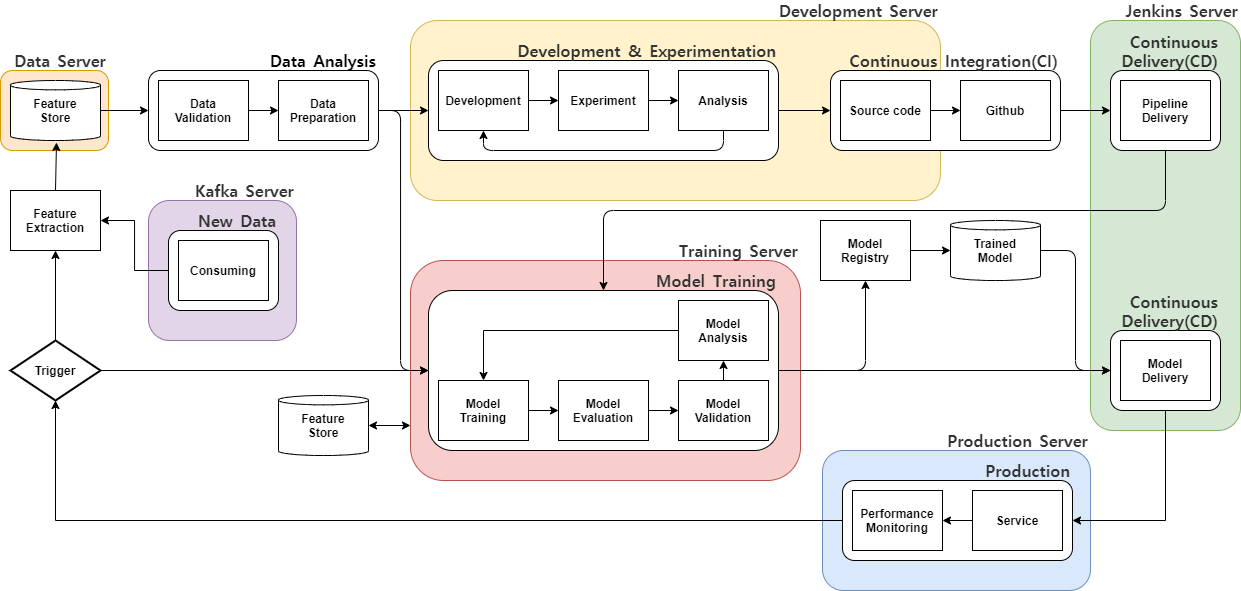
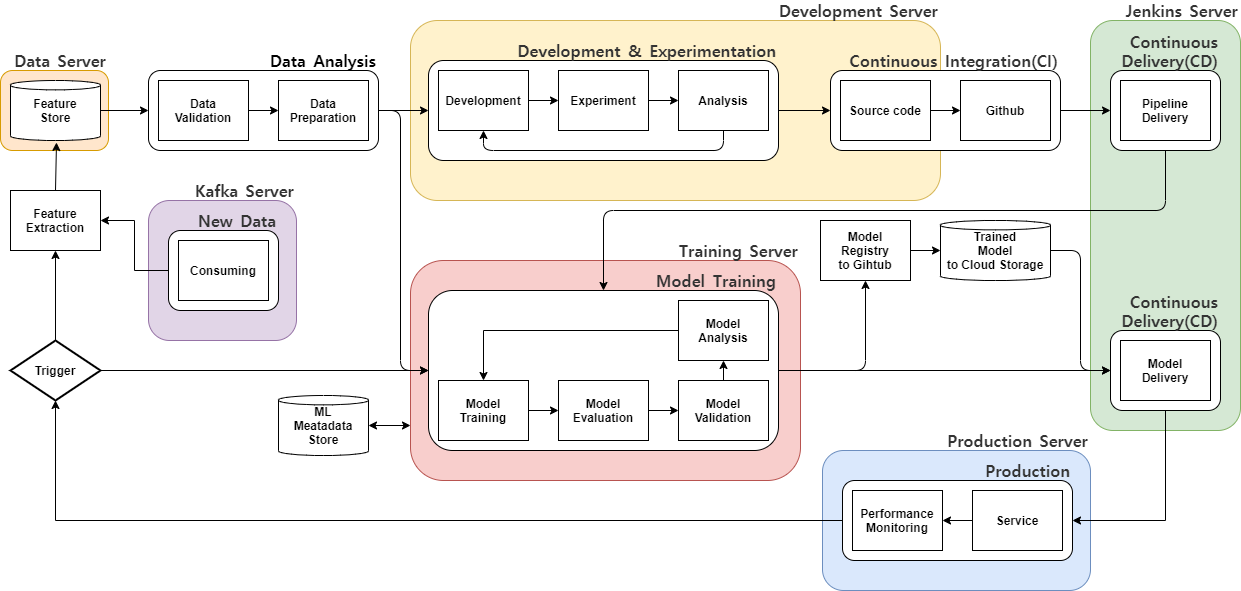
mlops 1

Changed region(s): [[0.6737, 0.3655, 0.8574, 0.4873], [0.2143, 0.6701, 0.3062, 0.7614]]

diff --git a/_posts/2020-08-05-MLOps Toy Project 1.md b/_posts/2020-08-05-MLOps Toy Project 1.md
@@ -22,11 +22,33 @@ Toy Project
     - 학습 및 배포 시 multi-GPU 사용
     - CI/CD/CT 사용(Jenkins)
 
-우선 전체 파이프라인에 대해 설계를 해야한다. Google Cloud Platform의 [MLOps 포스팅](https://cloud.google.com/solutions/machine-learning/mlops-continuous-delivery-and-automation-pipelines-in-machine-learning) 에서는 3 단계의 ML 파이프라인을 소개한다. 이 중 Ci/CD/CT 의 자동화가 가능한 마지막 레벨의 파이프라인을 참고하여 약간 변형된? (거의 동일한) pipeline을 그려보았다.
+우선 전체 파이프라인에 대해 설계를 해야한다. Google Cloud Platform의 [MLOps CI/CD/CT Pipelines](https://cloud.google.com/solutions/machine-learning/mlops-continuous-delivery-and-automation-pipelines-in-machine-learning) 에서는 3 단계의 ML 파이프라인을 소개한다. 이 중 **Ci/CD/CT 의 자동화**가 가능한 마지막 레벨의 파이프라인을 참고하여 약간 변형된? (거의 동일한) pipeline을 그려보았다.
 
 ![pipeline](https://raw.githubusercontent.com/byeongjokim/byeongjokim.github.io/master/assets/images/mlops1/pipeline.png){: width="100%"}
 
-우선 6개의 서버를 사용 할 것이다.
+ML pipeline 에는 필수적으로 구성되어야하는 요소들이 있다. [URL](https://growingdata.com.au/mlops-ci-cd-for-machine-learning-pipelines-model-deployment-with-kubeflow/?preview=true&_thumbnail_id=5121)
+- Prepare & Integrate Data
+- Feature Engineering
+- Model Training & Model Evaluation
+- Hyper Parameter Tuning
+- Model Store
+
+### Prepare & Integrate Data
+training 와 inference 할 때 data의 구조 혹은 양식은 동일해야 하기 때문에 동일한 Data Analysis pipeline을 사용한다. 이때 data의 유효성을 검사하는 **Data Validation**과, 모델 학습에 맞게 변형 시키는 **Data Preparation**이 필수 적이다.
+
+### Feature Engineering
+ML은 data의 feature을 주로 사용하기 때문에 이를 저장하는 **Feature Store**를 사용한다. Feature Store는 학습 및 서비스를 위해 저장 및 엑세스가 가능한 중앙 저장소이다. 이는 feature을 재사용하고, 최신 feature들로 update 될 수 있어야한다. 또한 Kafka로 전달된 새로운 데이터는 **Feature Extraction**을 통해 Feature Store에 저장된다.
+
+### Model Training & Model Evaluation
+ML Model은 학습으로만 끝나는 것이 아니라, **Evaluation**, **Validation**, 그리고 **Analysis** 과정을 통해 더 좋은 Model을 Fitting 해야한다.
+
+### Hyper Parameter Tuning
+ML Model을 학습할 때 여러 Hyper Parameter들이 사용된다. 그리고 이것들에 따라 ML Model의 성능이 좌우된다. 따라서, 각 모델의 Hyper Parameter을 **ML Metatdata Store** 라는 저장소에 저장을 하여, 모델에 따른 Hyper Parameter version 관리 및 엑세스가 가능해야 한다.
+
+### Model Store
+ML Model이 학습 된 후 inference 되기 위해서는 Weight 파일이 저장되어야 한다. 이는 Github, File Cloud 서비스, 혹은 서버를 통해 version 관리가 가능하다. 이번 프로젝트에는 weight 파일은 Google Drive에, 버전 정보는 Github에 관리를 할 예정이다.
+
+각 pipeline의 요소들을 위해 6개의 서버를 사용 할 것이다.
 - Data Server: feature 저장
 - Development Server: 소스 코드 개발
 - Training Server: 모델 학습(GPU 서버)
@@ -34,12 +56,7 @@ Toy Project
 - Productino Server: 배포
 - Kafka Server: 새로운 데이터 공급
 
-물론 Toy Project로 진행 될 것이기 때문에, 6개의 서버를 모두 구축하기는 힘들고, 몇몇 서버는 통합하여 실습해 볼 것이다.
-
-모든 pipeline은 docker로 구축을 할 것이며, 
-
-.. TBA
-
+물론 Toy Project로 진행 될 것이기 때문에, 6개의 서버를 모두 구축하기는 힘들고, 몇몇 요소들은 docker화 시켜 서버를 통합하여 실습해 볼 것이다.
 
 ## References
 - [Kubernetes](https://kubernetes.io/docs/home/)
